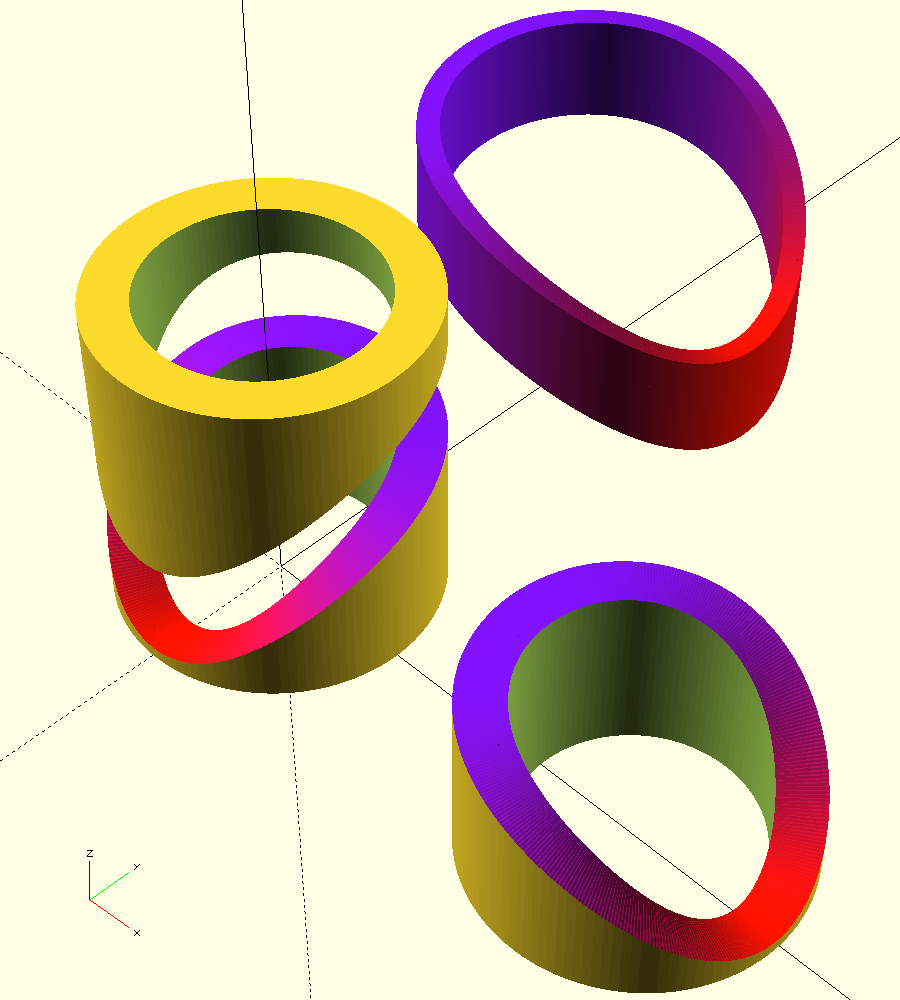
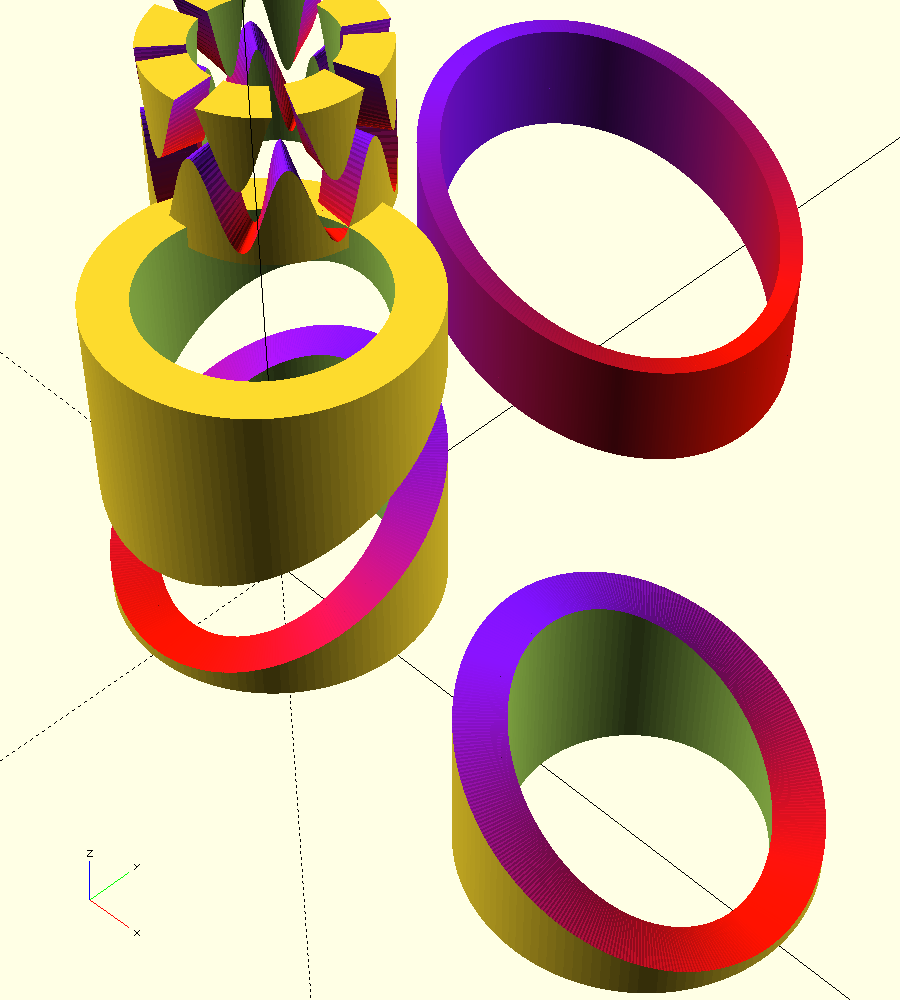
add strange curve example

diff --git a/README.md b/README.md
@@ -5,10 +5,10 @@ Generates a continuous pin in slot cam groove onto a cylinder using your motion 
 Export into your modeling software. 
 
 A formula like sin(x) is more elegant than splines or jerky turns.
-Autodesk Fusion requires [this clumsy process](https://www.youtube.com/watch?v=6ZrHVjxzBK8) to 
-extrude onto the surface of a cylinder.
-then remove the last 1 degree nib.
-Yet the groove walls are not aligned with the bearing.
+In Autodesk Fusion this shape is impossible to make. [While this clumsy process](https://www.youtube.com/watch?v=6ZrHVjxzBK8) will
+extrude onto the surface of a cylinder,
+the groove walls are not aligned with the bearing.
+And leaves a 1 degree nib to cleanup because Emboss is not a 360 degree operation.
 
 Next, sliding joint motion tangent to the groove, the bearing,
 is unreliable especially over multiple faces.